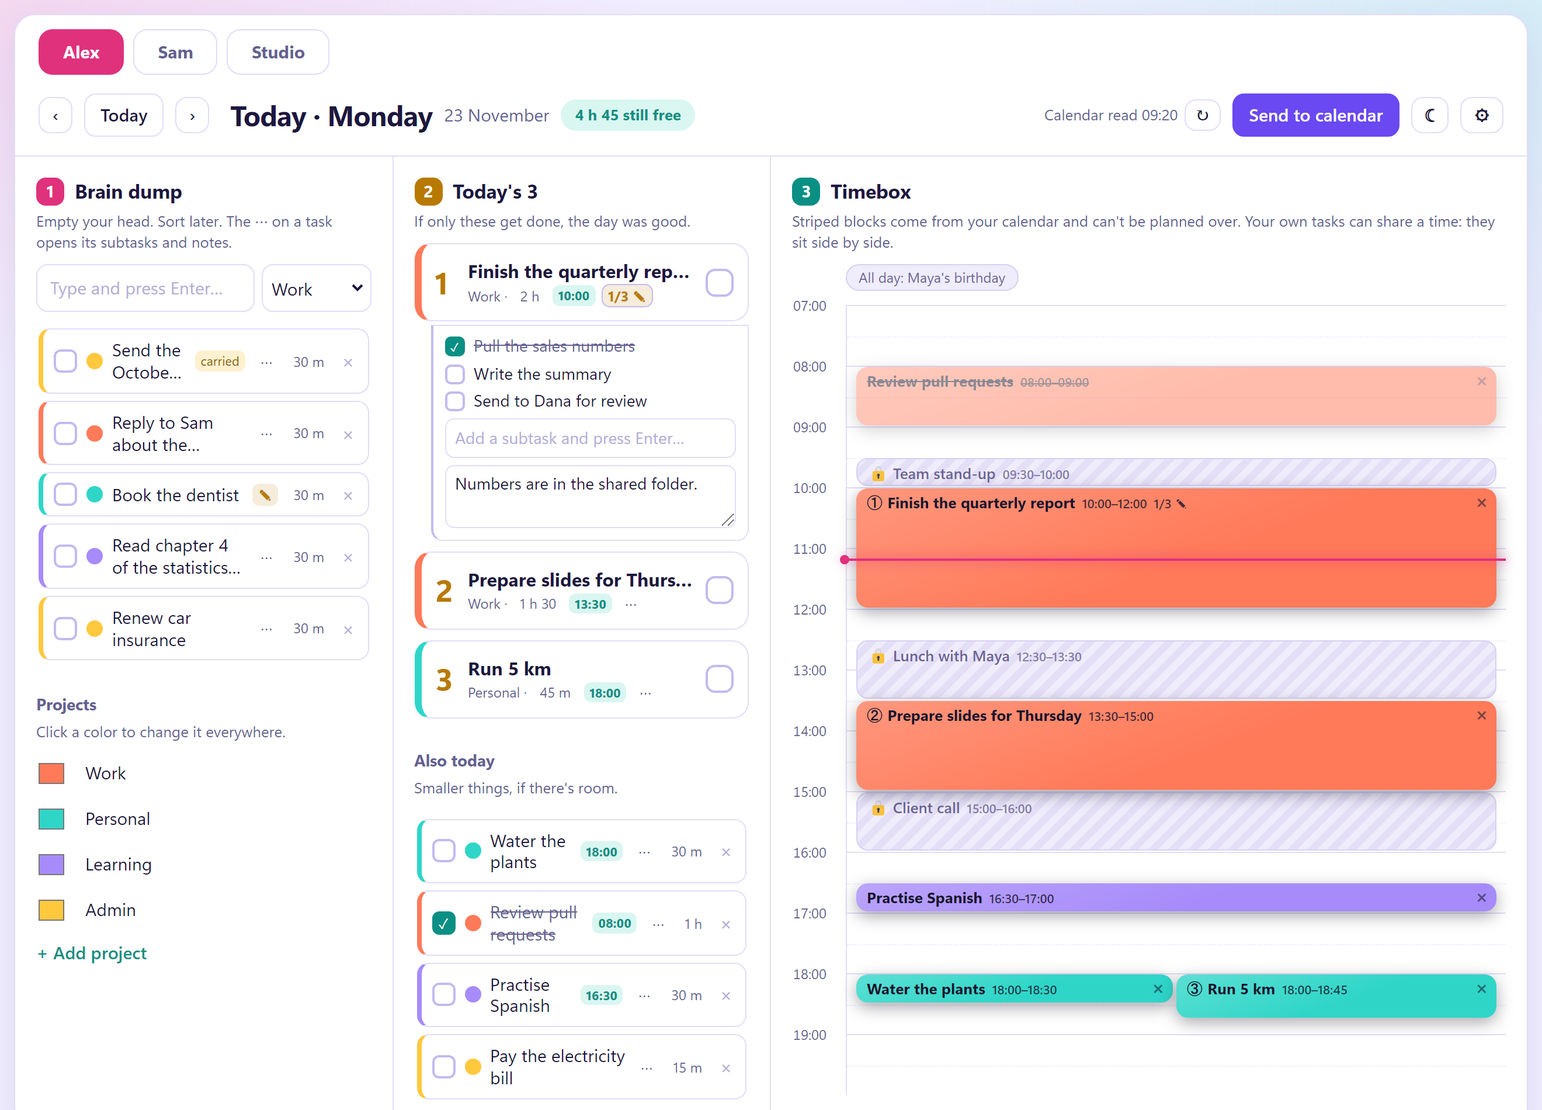
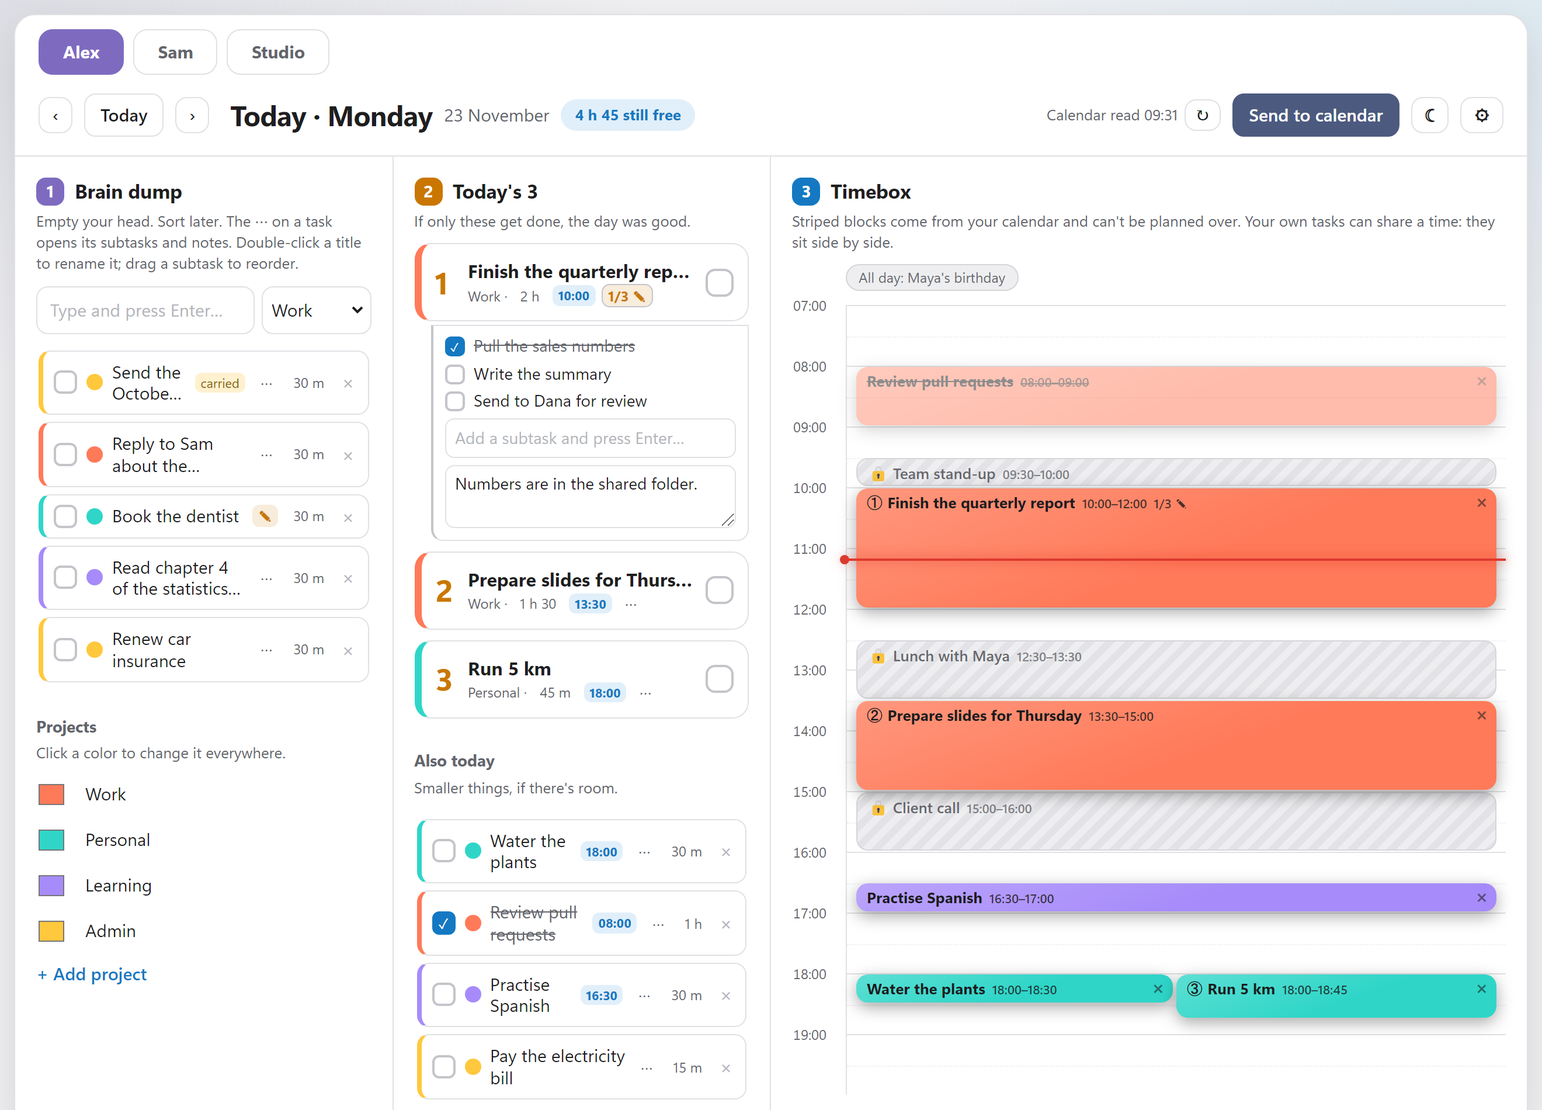
Drag subtasks into a new order; graphite and blue colors

diff --git a/public/assets/app.css b/public/assets/app.css
@@ -1,29 +1,29 @@
 /* Dark is the standard look; the sun button in the top bar switches to light (data-theme on <html>). */
 :root{
   color-scheme:dark;
-  --bg:#100e24;--card:#19163a;--field:#231f4c;--ink:#f4f2ff;--soft:#aba6da;--faint:#6f6aa6;
-  --line:#322d66;--line-strong:#4d4696;--line-soft:#262254;
-  --accent:#4fe3d3;--accent-soft:#143f4b;--go:#7453ff;--go-ink:#fff;
-  --pink:#ff5fa8;--sun:#ffc83d;--aqua:#4fe3d3;
-  --bad:#ff6b7d;--bad-ink:#ffb3bd;--bad-soft:#4a1b36;
-  --warn-ink:#ffd166;--warn-soft:#46370f;
-  --booked-a:#242052;--booked-b:#2d2862;--booked-ink:#b7b2e3;--booked-line:#3e3880;
-  --toast-bg:#f4f2ff;--toast-ink:#16132f;
-  --glow-a:rgba(255,95,168,.17);--glow-b:rgba(79,227,211,.13);--glow-c:rgba(116,83,255,.22);
-  --shadow:0 18px 50px rgba(5,3,20,.55);
+  --bg:#111112;--card:#1e1e1f;--field:#29292b;--ink:#f2f2f3;--soft:#a4a6ab;--faint:#6c6e73;
+  --line:#343437;--line-strong:#515156;--line-soft:#27272a;
+  --accent:#5ab8f5;--accent-soft:#16303f;--go:#4c5a7f;--go-ink:#fff;
+  --pink:#b1a4d9;--sun:#fcab22;--aqua:#3ca9e1;--now:#ee483c;
+  --bad:#f46253;--bad-ink:#f9a79d;--bad-soft:#40201c;
+  --warn-ink:#f6bf1a;--warn-soft:#3a2f0c;
+  --booked-a:#29292b;--booked-b:#323235;--booked-ink:#b4b6bb;--booked-line:#46464a;
+  --toast-bg:#f2f2f3;--toast-ink:#1b1c1e;
+  --glow-a:rgba(76,90,127,.20);--glow-b:rgba(60,169,225,.07);--glow-c:rgba(0,0,0,0);
+  --shadow:0 18px 50px rgba(0,0,0,.55);
 }
 :root[data-theme=light]{
   color-scheme:light;
-  --bg:#f3f0ff;--card:#fff;--field:#fff;--ink:#1c1740;--soft:#655f92;--faint:#b3add8;
-  --line:#e2dcfa;--line-strong:#c3baf0;--line-soft:#eeeafc;
-  --accent:#0a8f84;--accent-soft:#d9f6f1;--go:#6a48f2;--go-ink:#fff;
-  --pink:#e0317c;--sun:#b87900;--aqua:#0a8f84;
-  --bad:#d9364f;--bad-ink:#a8203a;--bad-soft:#fde7ec;
+  --bg:#f1f1f3;--card:#fff;--field:#fff;--ink:#1e1e1f;--soft:#63656b;--faint:#b4b6bb;
+  --line:#e1e1e5;--line-strong:#c4c4ca;--line-soft:#eeeef0;
+  --accent:#1479c2;--accent-soft:#e0effa;--go:#4c5a7f;--go-ink:#fff;
+  --pink:#7e6bc0;--sun:#c97700;--aqua:#1479c2;--now:#dd3a2e;
+  --bad:#d63a2d;--bad-ink:#a5271d;--bad-soft:#fde9e6;
   --warn-ink:#8a5d00;--warn-soft:#fff1cf;
-  --booked-a:#efecfb;--booked-b:#e4dff7;--booked-ink:#6b6596;--booked-line:#d7d0f3;
-  --toast-bg:#1c1740;--toast-ink:#fff;
-  --glow-a:rgba(255,95,168,.16);--glow-b:rgba(79,227,211,.18);--glow-c:rgba(116,83,255,.12);
-  --shadow:0 14px 40px rgba(60,40,140,.12);
+  --booked-a:#eeeef0;--booked-b:#e3e3e7;--booked-ink:#66686e;--booked-line:#d5d5da;
+  --toast-bg:#1e1e1f;--toast-ink:#fff;
+  --glow-a:rgba(76,90,127,.12);--glow-b:rgba(60,169,225,.10);--glow-c:rgba(0,0,0,0);
+  --shadow:0 14px 40px rgba(20,20,30,.12);
 }
 *{box-sizing:border-box}
 html{background:var(--bg)}
@@ -58,7 +58,7 @@ code{font:13px/1.3 Consolas,Menlo,monospace;background:var(--bg);border-radius:5
 .tab:nth-child(3n+2){--hue:var(--sun)}
 .tab:nth-child(3n){--hue:var(--aqua)}
 .tab:hover{color:var(--ink);border-color:var(--hue)}
-.tab.on{background:var(--hue);border-color:var(--hue);color:#16132f}
+.tab.on{background:var(--hue);border-color:var(--hue);color:#1b1c1e}
 :root[data-theme=light] .tab.on{color:#fff}
 .tab.over{outline:2px dashed var(--hue);outline-offset:2px;color:var(--ink)}
 .top{display:flex;align-items:center;gap:10px;padding:16px 20px;border-bottom:1px solid var(--line);flex-wrap:wrap}
@@ -81,7 +81,7 @@ code{font:13px/1.3 Consolas,Menlo,monospace;background:var(--bg);border-radius:5
 /* each of the three steps has its own color */
 .c1{--hue:var(--pink)}.c2{--hue:var(--sun)}.c3{--hue:var(--aqua)}
 .h{font-size:17px;font-weight:750;letter-spacing:-.01em;margin:0 0 4px;display:flex;align-items:center;gap:9px}
-.h .num{width:24px;height:24px;border-radius:8px;background:var(--hue);color:#16132f;font-size:14px;font-weight:800;display:grid;place-items:center;flex:none}
+.h .num{width:24px;height:24px;border-radius:8px;background:var(--hue);color:#1b1c1e;font-size:14px;font-weight:800;display:grid;place-items:center;flex:none}
 :root[data-theme=light] .h .num{color:#fff}
 .h.gap{margin-top:26px;font-size:14px;color:var(--soft)}
 .hint{color:var(--soft);font-size:13px;margin:0 0 10px}
@@ -111,7 +111,7 @@ code{font:13px/1.3 Consolas,Menlo,monospace;background:var(--bg);border-radius:5
 .x:hover{color:var(--bad)}
 .check{width:20px;height:20px;border:2px solid var(--line-strong);border-radius:6px;flex:none;background:var(--field);color:transparent;font-size:12px;line-height:1;padding:0}
 .check:hover{border-color:var(--accent)}
-.check.on{background:var(--accent);border-color:var(--accent);color:#10102a}
+.check.on{background:var(--accent);border-color:var(--accent);color:#1b1c1e}
 :root[data-theme=light] .check.on{color:#fff}
 #top3 .task{margin:0 0 9px}
 .slot{display:flex;gap:10px;align-items:center;border-radius:14px;padding:12px;border:1px solid var(--line);background:var(--field);border-left:6px solid var(--line);min-height:62px;cursor:grab}
@@ -128,6 +128,10 @@ code{font:13px/1.3 Consolas,Menlo,monospace;background:var(--bg);border-radius:5
 .subs:empty{display:none}
 .subs li{display:flex;align-items:flex-start;gap:8px;font-size:14px}
 .subs li span{flex:1;min-width:0;overflow-wrap:anywhere;line-height:1.3}
+.subs li{cursor:grab;border-radius:6px;-webkit-touch-callout:none}
+.subs li.drop-before{box-shadow:0 -2px 0 var(--accent)}
+.subs li.drop-after{box-shadow:0 2px 0 var(--accent)}
+li.drag-clone{list-style:none;display:flex;align-items:flex-start;gap:8px;font-size:14px;background:var(--field);border:1px solid var(--line-strong);border-radius:8px;padding:5px 8px}
 .subs li.done span{text-decoration:line-through;color:var(--soft)}
 .subs .check{width:17px;height:17px;font-size:10px;border-radius:5px;margin-top:1px}
 .subs .x{visibility:hidden}
@@ -151,7 +155,7 @@ code{font:13px/1.3 Consolas,Menlo,monospace;background:var(--bg);border-radius:5
 .hr:after{content:"";position:absolute;left:0;right:0;top:26px;border-top:1px dotted var(--line-soft)}
 .hr i{position:absolute;left:-46px;top:-9px;font-style:normal;font-size:12px;color:var(--soft);font-variant-numeric:tabular-nums}
 .blk{position:absolute;left:8px;right:8px;border-radius:10px;padding:4px 22px 4px 9px;font-size:13px;font-weight:700;overflow:hidden;cursor:grab;line-height:1.25;
-  background-image:linear-gradient(160deg,rgba(255,255,255,.22),rgba(255,255,255,0) 55%);box-shadow:0 4px 14px rgba(5,3,20,.35)}
+  background-image:linear-gradient(160deg,rgba(255,255,255,.22),rgba(255,255,255,0) 55%);box-shadow:0 4px 14px rgba(0,0,0,.35)}
 .blk small{font-weight:500;opacity:.8;margin-left:6px;white-space:nowrap}
 .blk.done{opacity:.5;text-decoration:line-through}
 .blk .x{position:absolute;right:5px;top:3px;color:inherit;opacity:.55}
@@ -160,15 +164,15 @@ code{font:13px/1.3 Consolas,Menlo,monospace;background:var(--bg);border-radius:5
 .booked{background:repeating-linear-gradient(135deg,var(--booked-a),var(--booked-a) 6px,var(--booked-b) 6px,var(--booked-b) 12px);color:var(--booked-ink);border:1px solid var(--booked-line);cursor:not-allowed;box-shadow:none;padding-right:9px;font-weight:600}
 .ghost{position:absolute;left:8px;right:8px;border:2px dashed var(--accent);border-radius:10px;background:var(--accent-soft);opacity:.9;pointer-events:none;font-size:12px;padding:3px 8px;color:var(--accent);font-weight:700;display:none;z-index:2}
 .ghost.bad{border-color:var(--bad);background:var(--bad-soft);color:var(--bad-ink)}
-.now{position:absolute;left:-5px;right:0;border-top:2px solid var(--pink);pointer-events:none;z-index:1;box-shadow:0 0 10px var(--pink)}
-.now:before{content:"";position:absolute;left:-1px;top:-5px;width:8px;height:8px;border-radius:50%;background:var(--pink)}
+.now{position:absolute;left:-5px;right:0;border-top:2px solid var(--now);pointer-events:none;z-index:1;box-shadow:0 0 10px var(--now)}
+.now:before{content:"";position:absolute;left:-1px;top:-5px;width:8px;height:8px;border-radius:50%;background:var(--now)}
 .toast{position:fixed;left:50%;bottom:26px;transform:translateX(-50%);background:var(--toast-bg);color:var(--toast-ink);padding:10px 18px;border-radius:99px;font-size:14px;opacity:0;transition:opacity .2s;pointer-events:none;max-width:90vw;z-index:10;display:flex;align-items:center;gap:14px;box-shadow:var(--shadow)}
 .toast.on{opacity:1;pointer-events:auto}
 .toast-act{border:0;background:none;color:inherit;font-weight:700;text-decoration:underline;padding:0}
 
 /* settings */
 dialog{border:1px solid var(--line);border-radius:20px;padding:0;width:min(680px,94vw);max-height:92vh;background:var(--card);color:var(--ink);box-shadow:0 20px 60px rgba(0,0,0,.45)}
-dialog::backdrop{background:rgba(8,6,24,.6)}
+dialog::backdrop{background:rgba(0,0,0,.6)}
 .dlg-head{display:flex;justify-content:space-between;align-items:center;padding:16px 20px;border-bottom:1px solid var(--line);position:sticky;top:0;background:var(--card);z-index:1}
 .dlg-head h2{margin:0;font-size:20px;font-weight:750}
 dialog section{padding:16px 20px;border-bottom:1px solid var(--line)}

diff --git a/public/assets/app.js b/public/assets/app.js
@@ -2,7 +2,7 @@
 'use strict';
 
 const H = 52, SNAP = 15, DURS = [15, 30, 45, 60, 90, 120, 180];
-const PALETTE = ['#ff5fa8', '#4ade80', '#ff9f43', '#4da3ff', '#c77dff', '#ffd23f'];
+const PALETTE = ['#3ca9e1', '#5dbe53', '#fc981e', '#b1a4d9', '#ee483c', '#f6bf1a'];
 const csrf = document.querySelector('meta[name=csrf]').content;
 const $ = id => document.getElementById(id);
 
@@ -12,6 +12,7 @@ let DAY = dayStr(new Date());
 let BOARD = 0;         // the board being shown; 0 until the server says which exist (the choice is kept per device)
 try { BOARD = +localStorage.getItem('planner_board') || 0; } catch (e) { /* private window */ }
 let drag = null;       // { id, off } while a task is being dragged
+let subDrag = null;    // { id, i } while a subtask is being dragged to a new place in its list
 let editing = false;   // true while a title is being renamed (pauses re-rendering)
 const open = new Set(); // ids of the tasks whose subtasks and notes are showing
 
@@ -29,9 +30,9 @@ const startMin = () => S.settings.dayStart * 60;
 const endMin = () => S.settings.dayEnd * 60;
 function ink(hex) {
   const m = /^#(..)(..)(..)$/.exec(hex);
-  if (!m) return '#17142e';
+  if (!m) return '#1b1c1e';
   const l = (.299 * parseInt(m[1], 16) + .587 * parseInt(m[2], 16) + .114 * parseInt(m[3], 16)) / 255;
-  return l > .55 ? '#17142e' : '#fff';
+  return l > .55 ? '#1b1c1e' : '#fff';
 }
 /** Shows a short message; `action` ({ label, run }) adds a button to it, such as Undo. */
 function toast(msg, action) {
@@ -265,9 +266,9 @@ function moreBtn(t) {
 function details(t) {
   if (!open.has(t.id)) return '';
   return `<div class="details" data-details="${t.id}">
-    <ul class="subs">${t.subs.map((s, i) => `<li class="${s.done ? 'done' : ''}">
+    <ul class="subs">${t.subs.map((s, i) => `<li class="${s.done ? 'done' : ''}" draggable="true" data-subrow="${t.id}" data-i="${i}">
       <button class="check ${s.done ? 'on' : ''}" data-act="sub-done" data-id="${t.id}" data-i="${i}" title="Done">✓</button>
-      <span data-sub="${t.id}" data-i="${i}" title="Double-click to rename">${esc(s.title)}</span>
+      <span data-sub="${t.id}" data-i="${i}" title="Drag to reorder, double-click to rename">${esc(s.title)}</span>
       <button class="x" title="Delete subtask" data-act="sub-del" data-id="${t.id}" data-i="${i}">×</button></li>`).join('')}</ul>
     <input class="subadd" type="text" name="subtask" data-subadd="${t.id}" placeholder="Add a subtask and press Enter…" aria-label="New subtask" autocomplete="off" maxlength="300">
     <textarea class="notes" name="notes" data-notes="${t.id}" placeholder="Notes…" aria-label="Notes" rows="2" maxlength="5000">${esc(t.notes)}</textarea>
@@ -620,7 +621,45 @@ document.addEventListener('dragstart', e => {
   e.dataTransfer.setData('text/plain', String(drag.id));
   setTimeout(() => el.classList.add('dragging'), 0);
 });
-document.addEventListener('dragend', () => { drag = null; render(); });
+document.addEventListener('dragend', () => { drag = null; subDrag = null; render(); });
+
+// ---------- subtasks: drag to a new place in the list ----------
+document.addEventListener('dragstart', e => {
+  if (touch) return;
+  const li = e.target.closest && e.target.closest('[data-subrow]');
+  if (!li) return;
+  subDrag = { id: +li.dataset.subrow, i: +li.dataset.i };
+  e.dataTransfer.effectAllowed = 'move';
+  e.dataTransfer.setData('text/plain', 'subtask');
+  setTimeout(() => li.classList.add('dragging'), 0);
+});
+
+/** The row of the same task under the pointer, and whether the drop would go after it. */
+function subTarget(target, y) {
+  const li = target && target.closest && target.closest('[data-subrow]');
+  if (!li || +li.dataset.subrow !== subDrag.id) return null;
+  const r = li.getBoundingClientRect();
+  return { li: li, after: y > r.top + r.height / 2 };
+}
+
+/** Shows where the dragged subtask would land. Returns true when it can be dropped there. */
+function subMove(target, y) {
+  document.querySelectorAll('.drop-before, .drop-after').forEach(x => x.classList.remove('drop-before', 'drop-after'));
+  const at = subTarget(target, y);
+  if (at) at.li.classList.add(at.after ? 'drop-after' : 'drop-before');
+  return !!at;
+}
+
+function subDrop(target, y) {
+  const t = task(subDrag.id), at = subTarget(target, y);
+  if (!t || !at || !t.subs[subDrag.i]) return;
+  let to = +at.li.dataset.i + (at.after ? 1 : 0);
+  if (to > subDrag.i) to--;                      // taking the row out shifts the ones below it up
+  if (to === subDrag.i) return;
+  const subs = t.subs.slice(), moved = subs.splice(subDrag.i, 1)[0];
+  subs.splice(to, 0, moved);
+  update(t, { subs: subs });
+}
 
 function dropTime(y) {
   const t = task(drag.id), r = $('tl').getBoundingClientRect();
@@ -688,11 +727,13 @@ function dragDrop(target, y) {
 }
 
 document.addEventListener('dragover', e => {
+  if (subDrag) { if (subMove(e.target, e.clientY)) e.preventDefault(); return; }
   if (!drag || !task(drag.id)) return;
   if (dragMove(e.target, e.clientY)) e.preventDefault();
 });
 
 document.addEventListener('drop', e => {
+  if (subDrag) { e.preventDefault(); subDrop(e.target, e.clientY); return; }
   if (!drag || !task(drag.id)) return;
   e.preventDefault();
   dragDrop(e.target, e.clientY);
@@ -712,15 +753,18 @@ function touchEnd(drop) {
   if (!was.active) return;
   was.clone.remove();
   document.body.classList.remove('touch-dragging');
-  if (drop && task(drag.id)) dragDrop(document.elementFromPoint(was.x, was.y), was.y);
-  drag = null;
+  const under = document.elementFromPoint(was.x, was.y);
+  if (drop && subDrag) subDrop(under, was.y);
+  else if (drop && task(drag.id)) dragDrop(under, was.y);
+  drag = null; subDrag = null;
   render();
 }
 
 function touchLift() {
   const el = touch.el, r = el.getBoundingClientRect();
   touch.active = true;
-  drag = { id: +el.dataset.id, off: el.dataset.blk ? Math.round((touch.y - r.top) / H * 60) : 0 };
+  if (el.dataset.subrow) subDrag = { id: +el.dataset.subrow, i: +el.dataset.i };
+  else drag = { id: +el.dataset.id, off: el.dataset.blk ? Math.round((touch.y - r.top) / H * 60) : 0 };
   const c = el.cloneNode(true);
   c.classList.add('drag-clone');
   c.removeAttribute('data-id');
@@ -738,14 +782,14 @@ function touchLift() {
     const step = touch.y < EDGE ? -14 : touch.y > innerHeight - EDGE ? 14 : 0;
     if (!step) return;
     scrollBy(0, step);
-    dragMove(document.elementFromPoint(touch.x, touch.y), touch.y);
+    (subDrag ? subMove : dragMove)(document.elementFromPoint(touch.x, touch.y), touch.y);
   }, 16);
 }
 
 document.addEventListener('touchstart', e => {
   if (touch) { touchEnd(false); return; }          // a second finger cancels
-  if (e.touches.length !== 1 || editing || drag) return;
-  const el = e.target.closest('[data-id][draggable="true"]');
+  if (e.touches.length !== 1 || editing || drag || subDrag) return;
+  const el = e.target.closest('[data-id][draggable="true"], [data-subrow]');
   if (!el || e.target.closest('button, input, [data-rs]')) return;   // buttons keep their tap
   const p = e.touches[0];
   touch = { el: el, x: p.clientX, y: p.clientY, active: false, timer: setTimeout(touchLift, HOLD_MS) };
@@ -763,6 +807,7 @@ document.addEventListener('touchmove', e => {
   touch.clone.style.left = (p.clientX - touch.dx) + 'px';
   touch.clone.style.top = (p.clientY - touch.dy) + 'px';
   const under = document.elementFromPoint(p.clientX, p.clientY);
+  if (subDrag) { subMove(under, p.clientY); return; }
   touch.clone.classList.toggle('faint', !!(under && under.closest('#tl')));   // keep the landing time readable
   dragMove(under, p.clientY);
 }, { passive: false });
@@ -853,9 +898,9 @@ $('settings').addEventListener('click', e => { if (e.target === e.currentTarget)
 
 // ---------- start ----------
 startDay();
-setInterval(() => { if (!drag && !editing) renderTimeline(); }, 60000);          // keeps the "now" line moving
+setInterval(() => { if (!drag && !subDrag && !editing) renderTimeline(); }, 60000);          // keeps the "now" line moving
 document.addEventListener('visibilitychange', () => {                              // new day or stale tab: reload
   const a = document.activeElement;
-  if (document.hidden || drag || editing || (a && a.matches('.subadd, .notes'))) return;
+  if (document.hidden || drag || subDrag || editing || (a && a.matches('.subadd, .notes'))) return;
   startDay();
 });

diff --git a/docs/index.html b/docs/index.html
@@ -14,16 +14,16 @@
 <link rel="icon" href="icon.svg" type="image/svg+xml">
 <style>
 :root{
-  --bg:#f3f0ff;--card:#fff;--ink:#1c1740;--soft:#655f92;--line:#e2dcfa;
-  --accent:#0a8f84;--accent-soft:#d9f6f1;--go:#6a48f2;--code:#eeeafc;
-  --work:#ff5fa8;--personal:#ffc83d;--learning:#4fe3d3;
-  --shadow:0 24px 70px rgba(60,40,140,.18);
+  --bg:#f1f1f3;--card:#fff;--ink:#1e1e1f;--soft:#63656b;--line:#e1e1e5;
+  --accent:#1479c2;--accent-soft:#e0effa;--go:#4c5a7f;--code:#eeeef0;
+  --work:#b1a4d9;--personal:#fcab22;--learning:#3ca9e1;
+  --shadow:0 24px 70px rgba(20,20,30,.16);
 }
 @media (prefers-color-scheme:dark){
   :root{
-    --bg:#100e24;--card:#19163a;--ink:#f4f2ff;--soft:#aba6da;--line:#322d66;
-    --accent:#4fe3d3;--accent-soft:#143f4b;--go:#7453ff;--code:#231f4c;
-    --shadow:0 24px 70px rgba(5,3,20,.6);
+    --bg:#111112;--card:#1e1e1f;--ink:#f2f2f3;--soft:#a4a6ab;--line:#343437;
+    --accent:#5ab8f5;--accent-soft:#16303f;--go:#4c5a7f;--code:#29292b;
+    --shadow:0 24px 70px rgba(0,0,0,.6);
   }
 }
 *{box-sizing:border-box}
@@ -56,7 +56,7 @@ h2{font-size:clamp(26px,3.4vw,36px);letter-spacing:-.02em;line-height:1.15;margi
 .card{background:var(--card);border:1px solid var(--line);border-radius:16px;padding:24px}
 .card h3{margin:0 0 6px;font-size:19px}
 .card p{margin:0;color:var(--soft);font-size:16px}
-.num{width:36px;height:36px;border-radius:11px;display:grid;place-items:center;font-weight:750;color:#16132f;margin-bottom:14px}
+.num{width:36px;height:36px;border-radius:11px;display:grid;place-items:center;font-weight:750;color:#1b1c1e;margin-bottom:14px}
 .grid2{display:grid;grid-template-columns:repeat(2,minmax(0,1fr));gap:18px}
 .grid2 figure{margin:0}
 .grid2 .shot{margin:0;border-radius:12px}

diff --git a/tests/test_browser.py b/tests/test_browser.py
@@ -286,6 +286,7 @@ def run(page):
     page.click("[data-act=settings-close]")
 
     run_sub_rename(page)
+    run_sub_reorder(page)
     run_boards(page)
 
 
@@ -321,6 +322,41 @@ def run_sub_rename(page):
     page.click(item + " [data-act=more]")
     check("subtasks: the new name is saved", "renamed" in page.locator(item + " .subs li").nth(1).inner_text()
           and "First step" in page.locator(item + " .subs li").nth(0).inner_text())
+    page.click(item + " .item [data-act=del]")
+    page.wait_for_timeout(300)
+
+
+def run_sub_reorder(page):
+    """Subtasks are dragged into a new order. Uses its own task and deletes it afterwards."""
+    add(page, "Order host")
+    item = "#z-dump .task:has(.item:has-text('Order host'))"
+    page.click(item + " [data-act=more]")
+    for title in ("Alpha", "Bravo", "Charlie"):
+        page.fill(item + " .subadd", title)
+        page.press(item + " .subadd", "Enter")
+    rows = page.locator(item + " .subs li")
+    rows.nth(2).wait_for()
+    page.click(item + " .subs li >> nth=0 >> [data-act=sub-done]")
+
+    def order():
+        return [t.strip().lstrip("✓").rstrip("×").strip() for t in rows.all_inner_texts()]
+
+    box = rows.nth(2).bounding_box()
+    rows.nth(0).drag_to(rows.nth(2), target_position={"x": box["width"] / 2, "y": box["height"] - 2})
+    page.wait_for_timeout(300)
+    check("subtasks: dragging the first below the last moves it to the end, tick and all",
+          order() == ["Bravo", "Charlie", "Alpha"] and "done" in (rows.nth(2).get_attribute("class") or ""), str(order()))
+    rows.nth(2).drag_to(rows.nth(1), target_position={"x": box["width"] / 2, "y": 2})
+    page.wait_for_timeout(300)
+    check("subtasks: dragging onto the top half of a row puts it before that row", order() == ["Bravo", "Alpha", "Charlie"], str(order()))
+    page.wait_for_timeout(300)
+    page.reload()
+    page.wait_for_selector(item)
+    page.click(item + " [data-act=more]")
+    rows = page.locator(item + " .subs li")
+    check("subtasks: the new order is saved", order() == ["Bravo", "Alpha", "Charlie"], str(order()))
+    check("subtasks: a subtask dragged onto the task lists changes nothing",
+          page.locator("#z-dump .item:has-text('Order host')").count() == 1)
     page.click(item + " .item [data-act=del]")
     page.wait_for_timeout(300)
 

diff --git a/public/index.php b/public/index.php
@@ -73,7 +73,7 @@ $theme = ($_COOKIE['planner_theme'] ?? '') === 'light' ? 'light' : 'dark';   // 
     <div class="cols">
       <div class="col c1">
         <h2 class="h"><span class="num">1</span>Brain dump</h2>
-        <p class="hint">Empty your head. Sort later. The ⋯ on a task opens its subtasks and notes. Double-click a title to rename it.</p>
+        <p class="hint">Empty your head. Sort later. The ⋯ on a task opens its subtasks and notes. Double-click a title to rename it; drag a subtask to reorder.</p>
         <p class="hint touch-only">To move a task, press and hold it, then drag.</p>
         <div class="add"><input id="new" name="task" type="text" placeholder="Type and press Enter…" aria-label="New task" autocomplete="off" data-lpignore="true" data-1p-ignore data-bwignore maxlength="300" autofocus><select id="newp" title="Project"></select></div>
         <div class="zone" id="z-dump" data-zone="dump" data-empty="Head empty. Nice."></div>

diff --git a/CLAUDE.md b/CLAUDE.md
@@ -70,6 +70,7 @@ machine paths. Private notes for the owner's own deployment live in `CLAUDE.loca
 - **Dragging:** a mouse uses HTML5 drag and drop; a finger uses the touch handlers in `app.js` (press and hold
   260 ms, then move; the page scrolls when the finger is near an edge). Both call `dragMove()` and `dragDrop()`.
   Nothing may re-render the board while a touch drag is active: a touch only reports to the element it started on.
+  Subtasks are dragged into a new order the same two ways, through `subDrag`, `subMove()` and `subDrop()`.
 - **Front end:** a delete is sent at once; "Undo" adds the task again (`restoreTask`), without its slot or time
   if those were taken meanwhile. A re-draw replaces the subtask and notes boxes, so `renderLists()` carries
   over what is being typed; notes are saved 700 ms after the last keystroke. `save()` ignores the answer to an
